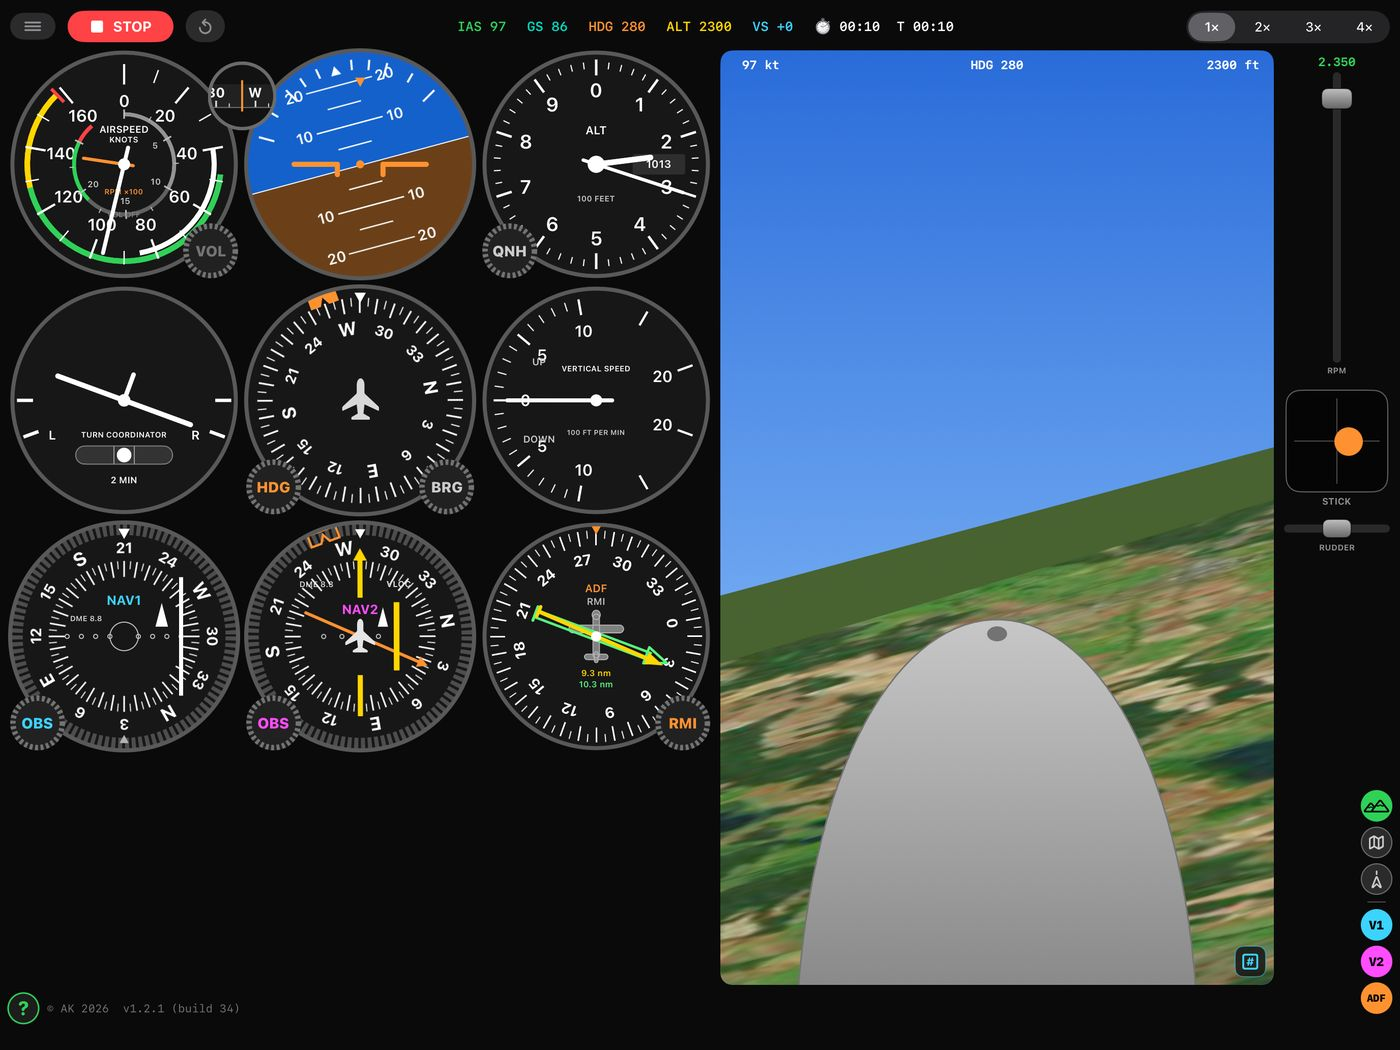
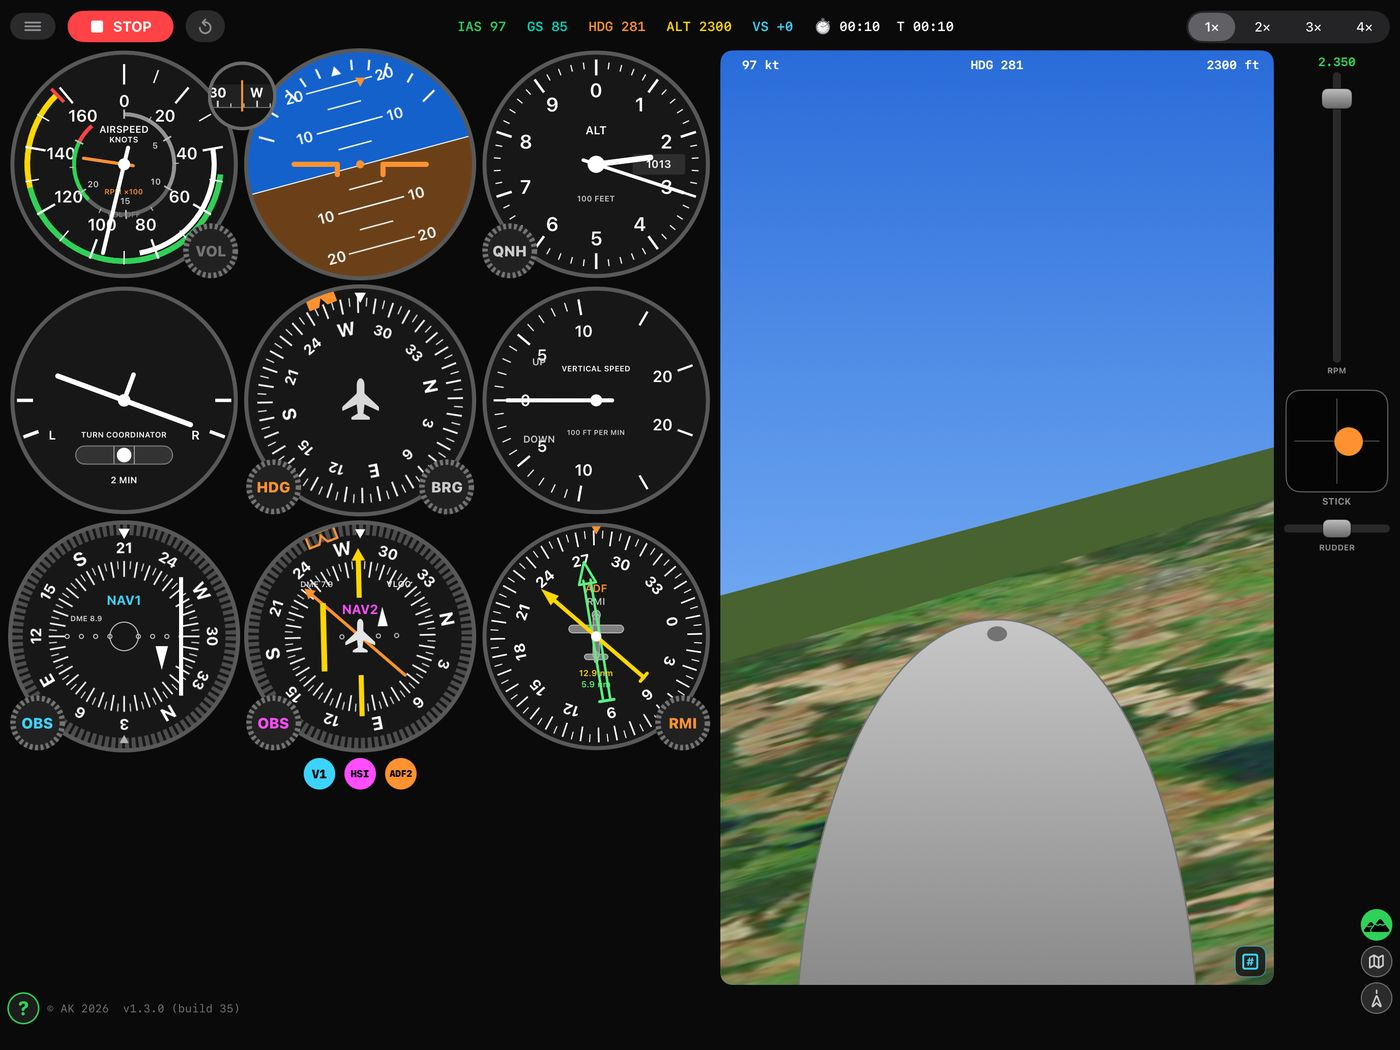
1.3.0: the glass panel, the switch row, a reset that moves you
Claude-Session: https://claude.ai/code/session_01YXmghSHD8B3EtCXWQDrJud

diff --git a/index.html b/index.html
@@ -63,6 +63,10 @@ scenery to download: press START and intercept something.</p>
     <img src="shots/cockpit.jpg" alt="The synthetic view over the cowling, banked, with the panel alongside.">
     <figcaption>Look up from the panel when you want to.</figcaption>
   </figure>
+  <figure>
+    <img src="shots/glass.jpg" alt="The same window with the nose taken away and a horizon, pitch ladder, bank scale and boxed speed, height and climb painted on it.">
+    <figcaption>Or take the nose away and fly the glass.</figcaption>
+  </figure>
 </div>
 
 <div class="cols">
@@ -72,12 +76,15 @@ scenery to download: press START and intercept something.</p>
   <li>Classic VOR head (NAV1) with a rotatable OBS ring, CDI and TO/FROM flag</li>
   <li>HSI (NAV2) with course needle, deviation bar, heading bug and an ADF pointer</li>
   <li>Twin-needle ADF — tune two NDBs and cross their bearings for a fix</li>
-  <li>The ADF card is fixed, slaved to the compass (RMI) or set by hand</li>
+  <li>The ADF card is fixed, slaved to the compass (RMI) or set by hand — turn
+      its knob, or just drag the card round by its rim</li>
   <li>A directional gyro that precesses about 10° in 15 minutes and has to be reset</li>
   <li>Airspeed with an RPM sub-dial, attitude, altimeter with hPa subscale, VSI
       and turn coordinator</li>
   <li>Spread two fingers and the nav heads take the whole screen — on a phone,
       the only way to read half a dot</li>
+  <li>The row of switches under the panel decides which heads are up: V2 steps
+      HSI → plain second VOR head → off, ADF two needles → one → off</li>
 </ul>
 
 <h2>Real navaids</h2>
@@ -87,6 +94,9 @@ scenery to download: press START and intercept something.</p>
   <li>Long press a VOR to tune it on NAV1 then NAV2; an NDB goes to the first
       ADF needle, then the second</li>
   <li>Long press an airport to fly direct to it</li>
+  <li>A reset deals a fresh exercise; switch on "Reset moves you somewhere new"
+      and it deals a fresh place too — a real aerodrome anywhere in the world
+      with real VORs in range of it</li>
 </ul>
 </div>
 
@@ -114,6 +124,15 @@ scenery to download: press START and intercept something.</p>
 </ul>
 </div>
 </div>
+
+<h2>Out of the window</h2>
+<p>The cockpit view has three settings. Look out over the cowling, which is the
+attitude reference in a real aeroplane — in level flight the horizon sits just
+above the nose, and where it sits is your pitch. Or switch to the glass panel:
+the nose goes, and a horizon, a pitch ladder every 10°, a bank scale and boxed
+speed, height and climb are painted on the window instead, so the view can be
+flown on its own. Or close it. The ground below is the real countryside, from
+the map.</p>
 
 <h2>GNS 430</h2>
 <p>Direct-To, a flight plan with automatic leg sequencing, OBS suspend, CDI
